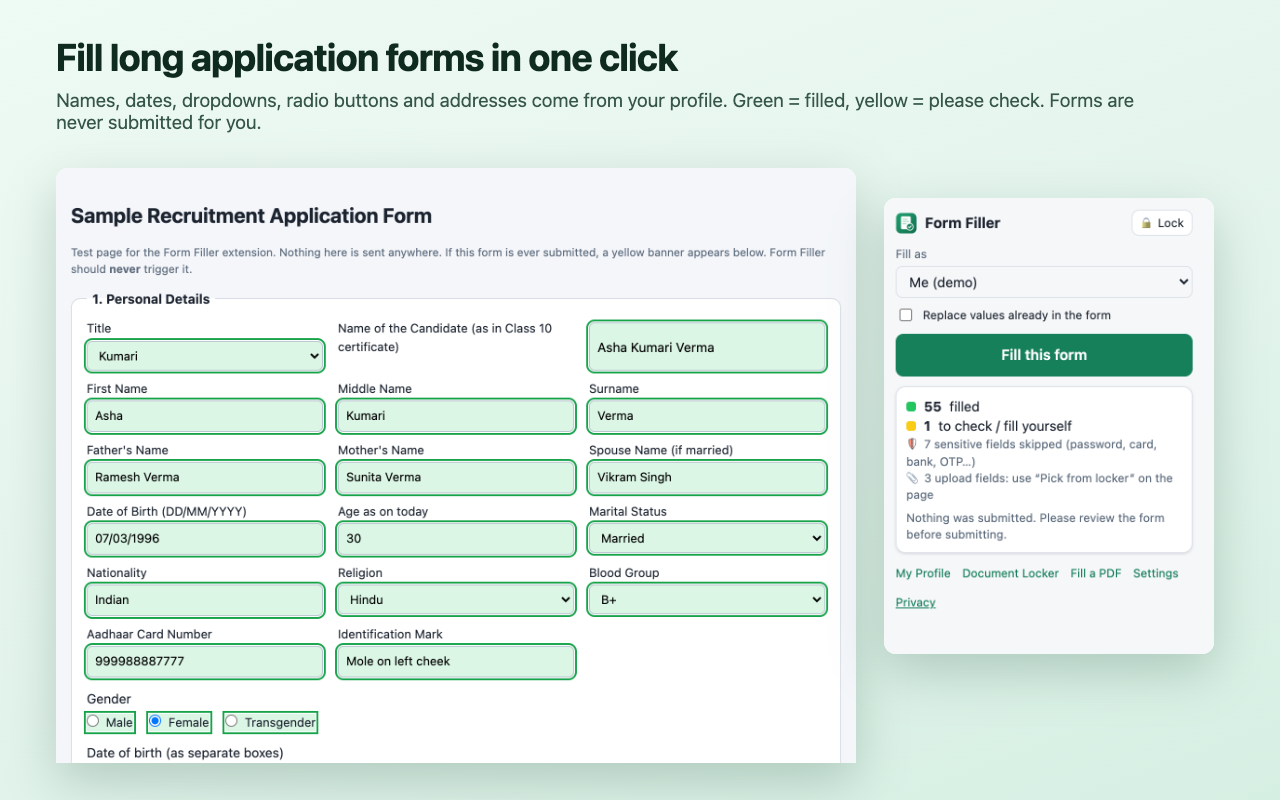
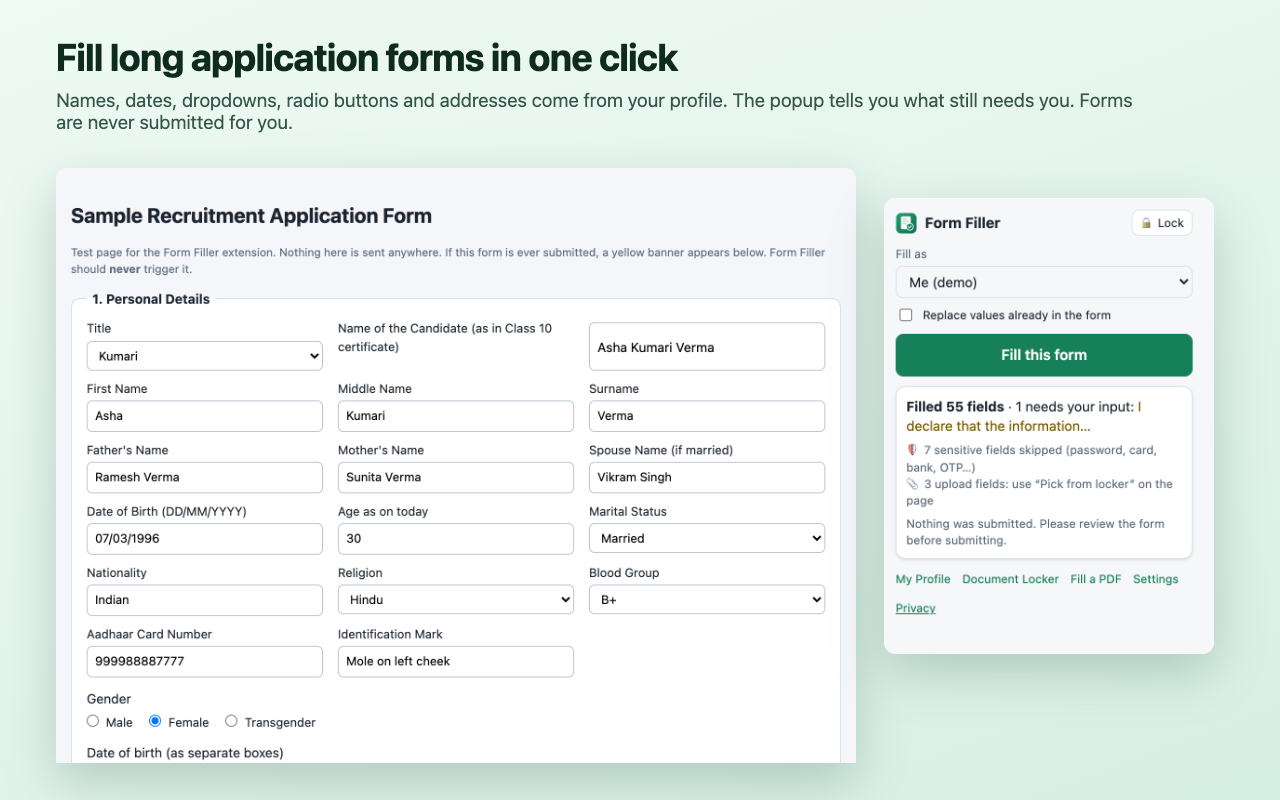
Web forms: no highlighting by default; summary in the popup; optional 'Highlight fields' setting
- The page is left as it is apart from the filled values: no outlines, tints,
  tooltips or in-page summary box (also no outline after attaching a file).
- The popup shows the result: 'Filled 55 fields · 1 needs your input:
  Declaration…' plus 'Please check: …' for values filled but uncertain. Field
  names are short (English part of bilingual labels, no numbering/brackets).
- Settings → Filling → 'Highlight fields on the page' (off by default) brings
  back the green/yellow highlights and the page summary.
- README, store listing text and screenshot 1 updated.

diff --git a/content/content.js b/content/content.js
@@ -295,8 +295,26 @@
   /**
    * assignments: [{ffId, value, kind, sure, dateFormat, key}] ; review: [ffId] mapped-but-empty / unmapped
    */
-  async function fill({ assignments, review, overwrite }) {
-    const stats = { green: 0, yellow: 0, kept: 0 };
+  // Highlighting is optional (Settings → Filling → Highlight fields on the page); by default the page is left
+  // exactly as it is apart from the filled values, and the summary is shown in the popup only.
+  let highlightOn = false;
+
+  /** Short, readable name of a field for the popup summary ("Mobile Number / मोबाइल नंबर :" → "Mobile Number"). */
+  function shortLabel(f) {
+    let l = String(f.desc.label || f.desc.placeholder || f.desc.name || '');
+    l = l.split(/\s+\/\s+/)[0]
+      .replace(/\s*\([^)]*\)\s*/g, ' ')
+      .replace(/^[\s\d.)]+/, '')
+      .replace(/[\s:*]+$/, '')
+      .replace(/\s+/g, ' ').trim();
+    if (!l) return 'Unnamed field';
+    return l.length > 32 ? l.slice(0, 30).trim() + '…' : l;
+  }
+
+  async function fill({ assignments, review, overwrite, highlight }) {
+    highlightOn = !!highlight;
+    clearHighlights();
+    const stats = { green: 0, yellow: 0, kept: 0, filled: 0, needs: [], check: [] };
     const pending = [];
     for (const a of assignments) {
       const f = fields.get(a.ffId);
@@ -324,8 +342,11 @@
       if (isFilledByUser(f)) continue;
       mark(f, YELLOW, 'Form Filler: not sure what goes here. Please fill or check manually.');
       stats.yellow++;
+      stats.needs.push(shortLabel(f));
     }
-    showPanel(stats);
+    if (highlightOn) showPanel(stats);
+    stats.needs = [...new Set(stats.needs)];
+    stats.check = [...new Set(stats.check)];
     return stats;
   }
 
@@ -337,10 +358,10 @@
   }
 
   function finish(f, a, r, stats) {
-    if (r === 'filled' && a.sure) { mark(f, GREEN, `Form Filler: filled from your profile (${a.key}).`); stats.green++; }
-    else if (r === 'filled' || r === 'unsure') { mark(f, YELLOW, `Form Filler: filled (${a.key}) but please double-check.`); stats.yellow++; }
+    if (r === 'filled' && a.sure) { mark(f, GREEN, `Form Filler: filled from your profile (${a.key}).`); stats.green++; stats.filled++; }
+    else if (r === 'filled' || r === 'unsure') { mark(f, YELLOW, `Form Filler: filled (${a.key}) but please double-check.`); stats.yellow++; stats.filled++; stats.check.push(shortLabel(f)); }
     else if (r === 'kept') { stats.kept++; }
-    else { mark(f, YELLOW, `Form Filler: could not fill (${a.key}); no matching value or option.`); stats.yellow++; }
+    else { mark(f, YELLOW, `Form Filler: could not fill (${a.key}); no matching value or option.`); stats.yellow++; stats.needs.push(shortLabel(f)); }
   }
 
   // ---------------- highlights ----------------
@@ -351,6 +372,7 @@
   }
 
   function mark(f, color, title) {
+    if (!highlightOn) return; // default: no colours, borders, tints or tooltips on the page
     for (const t of targetsOf(f)) {
       if (!t.dataset.ffOrig) t.dataset.ffOrig = JSON.stringify({ o: t.style.outline, b: t.style.backgroundColor, t: t.title });
       t.style.setProperty('outline', color.outline, 'important');
@@ -532,7 +554,7 @@
         input.dispatchEvent(new Event('change', { bubbles: true }));
         closePicker();
         const target = visible(input) ? input : input.parentElement;
-        if (target) {
+        if (target && highlightOn) {
           target.style.setProperty('outline', GREEN.outline, 'important');
           highlighted.add(target);
         }

diff --git a/popup/popup.js b/popup/popup.js
@@ -103,8 +103,14 @@ function renderResult(r) {
   if (r.mode === 'none') {
     lines.push('<div class="notice small">No fillable fields found on this page.</div>');
   } else {
-    lines.push(`<div class="line"><span class="dot" style="background:#22c55e"></span><b>${r.green}</b> filled</div>`);
-    lines.push(`<div class="line"><span class="dot" style="background:#facc15"></span><b>${r.yellow}</b> to check / fill yourself</div>`);
+    // "Filled 12 fields · 2 need your input: Mobile, Course"
+    const names = (list, max = 6) => list.length <= max ? list.map(esc).join(', ') : `${list.slice(0, max).map(esc).join(', ')} +${list.length - max} more`;
+    const filled = r.filled ?? r.green;
+    const needs = r.needs || [];
+    lines.push(`<div class="summary"><b>Filled ${filled} field${filled === 1 ? '' : 's'}</b>${needs.length
+      ? ` · ${needs.length} need${needs.length === 1 ? 's' : ''} your input: <span class="names">${names(needs)}</span>`
+      : ' · nothing left for you'}</div>`);
+    if (r.check?.length) lines.push(`<div class="small" style="margin-top:4px">Please check: ${names(r.check)}</div>`);
     if (r.kept) lines.push(`<div class="line small muted">${r.kept} already had a value (left as is)</div>`);
   }
   if (r.sensitive) lines.push(`<div class="line small muted">🛡 ${r.sensitive} sensitive field(s) skipped (password, card, bank, OTP…)</div>`);

diff --git a/background.js b/background.js
@@ -129,15 +129,22 @@ async function handleFill({ tabId, profileId, overwrite }) {
     });
   });
 
-  const totals = { green: 0, yellow: 0, kept: 0 };
+  const totals = { green: 0, yellow: 0, kept: 0, filled: 0, needs: [], check: [] };
+  const highlight = !!vault.settings.highlight; // off by default: no colours on the page
   for (const [frameId, args] of perFrame) {
     const [res] = await chrome.scripting.executeScript({
       target: { tabId, frameIds: [frameId] },
       func: (a) => window.__formFiller.fill(a),
-      args: [{ ...args, overwrite: !!overwrite }]
+      args: [{ ...args, overwrite: !!overwrite, highlight }]
     });
-    if (res?.result) for (const k of Object.keys(totals)) totals[k] += res.result[k] || 0;
+    const r = res?.result;
+    if (!r) continue;
+    for (const k of ['green', 'yellow', 'kept', 'filled']) totals[k] += r[k] || 0;
+    totals.needs.push(...(r.needs || []));
+    totals.check.push(...(r.check || []));
   }
+  totals.needs = [...new Set(totals.needs)];
+  totals.check = [...new Set(totals.check)];
   const fallbackModel = mode === 'ai' && lastModelUsed && lastModelUsed !== model ? lastModelUsed : null;
   return { ok: true, ...totals, sensitive, fileInputs, mode, aiError, fallbackModel, aiLimit: /daily limit|today's/.test(aiError || ''), remaining: aiMode(vault.settings) === 'service' ? lastRemaining : null, limit: lastLimit };
 }

diff --git a/options/options.js b/options/options.js
@@ -304,12 +304,18 @@ $('#doc-grid').addEventListener('click', async (e) => {
 function renderSettings() {
   $('#api-key').value = vault.settings.apiKey || '';
   $('#model').value = vault.settings.model || DEFAULT_MODEL;
+  $('#highlight').checked = !!vault.settings.highlight;
   const mode = aiMode(vault.settings);
   document.querySelectorAll('input[name=ai-mode]').forEach((r) => { r.checked = r.value === mode; });
   showModeFields();
   quotaToday().then((left) => { $('#quota-note').textContent = left != null ? `${left} left today.` : ''; });
 }
 const msg = (el, text, cls = 'muted') => { el.className = 'small ' + cls; el.textContent = text; };
+
+$('#highlight').onchange = async (e) => {
+  vault.settings.highlight = e.target.checked;
+  if (await persist()) msg($('#fill-msg'), e.target.checked ? '✓ Fields will be highlighted on the page.' : '✓ No highlighting: the summary appears in the popup.', 'ok');
+};
 
 const selectedMode = () => document.querySelector('input[name=ai-mode]:checked')?.value || 'service';
 function showModeFields() {

diff --git a/options/options.html b/options/options.html
@@ -96,6 +96,14 @@
         </div>
       </div>
       <div class="card">
+        <h2>Filling</h2>
+        <label class="ai-mode"><input type="checkbox" id="highlight">
+          <span><b>Highlight fields on the page</b><br>
+          <span class="muted small">Outline filled fields in green and fields to check in yellow, with a small summary box on the page.
+            Off by default: Form Filler just fills the values and shows the summary in its popup.</span></span></label>
+        <div class="row" style="margin-top:10px"><span id="fill-msg" class="small"></span></div>
+      </div>
+      <div class="card">
         <h2>Change PIN</h2>
         <div class="grid3">
           <label><span>Current PIN</span><input type="password" id="pin-old" autocomplete="off"></label>

diff --git a/popup/popup.html b/popup/popup.html
@@ -13,6 +13,8 @@
     #result { margin-top: 10px; }
     #result .line { display: flex; align-items: center; gap: 8px; }
     .dot { width: 10px; height: 10px; border-radius: 3px; display: inline-block; }
+    .summary { font-size: 14px; line-height: 1.45; margin-bottom: 6px; }
+    .summary .names { color: var(--warn-ink); }
     .links { display: flex; gap: 12px; margin-top: 12px; font-size: 12px; flex-wrap: wrap; }
     #lock .card { box-shadow: none; padding: 4px 0; border: 0; }
     #lock h2 { font-size: 15px; }

diff --git a/README.md b/README.md
@@ -4,7 +4,7 @@
 
 Form Filler is a Chrome extension for people who fill the same details into form after form: name, father's name, date of
 birth, addresses, education, category, documents. Save them once, open any application form, click **Fill this form**,
-check the highlighted fields, and submit yourself.
+check what the popup says still needs you, and submit yourself.
 
 ![Filling a web application form in one click](store/screenshots/1-fill-web-forms.png)
 
@@ -15,8 +15,9 @@ check the highlighted fields, and submit yourself.
   day/month/year boxes, date pickers) and dropdowns that load after another one (State → District)
 - Understands common labels and their variations: “Name of the Candidate”, “Father's/Husband's Name”, “S/o”,
   “Address for Correspondence”, Hindi labels (नाम, पिता का नाम, पता…)
-- Green = filled, yellow = please check. **Never submits a form**, and never touches password, card, CVV, bank, OTP or
-  captcha fields
+- Just fills the values: the page itself isn't marked up. The popup sums it up, e.g. *“Filled 12 fields · 2 need your
+  input: Mobile, Course”* (optional setting: highlight fields on the page). **Never submits a form**, and never touches
+  password, card, CVV, bank, OTP or captcha fields
 
 **PDF forms** (*Fill a PDF*)
 - Fillable PDFs are filled directly and stay editable
@@ -124,7 +125,7 @@ node scripts/package.mjs         # build dist/form-filler-<version>.zip for the 
 | Path | What's there |
 |---|---|
 | `manifest.json`, `background.js` | Manifest V3 extension, fill orchestration |
-| `content/` | in-page scanning, filling, highlights, locker buttons (`fillcore.js` holds the shared matching rules) |
+| `content/` | in-page scanning, filling, optional highlights, locker buttons (`fillcore.js` holds the shared matching rules) |
 | `lib/` | encrypted vault, profile schema, AI modes (`ai.js`, `gemini-core.js`), PDF text/geometry, image tools |
 | `popup/`, `options/`, `pdf/`, `picker/` | popup, settings & profile pages, Fill a PDF, Pick from locker |
 | `server/` | the free AI server (`server.mjs`, `limits.mjs`) |

diff --git a/store/listing.md b/store/listing.md
@@ -25,7 +25,7 @@ Tired of typing the same details into every job, exam and admission form? Form F
 **Fill web forms in one click**
 • Names, dates of birth (in any format: DD/MM/YYYY, separate day/month/year boxes…), dropdowns, radio buttons, checkboxes and addresses
 • Education (10th, 12th, graduation…), category, family and work details
-• Green = filled, yellow = please check. The form is never submitted for you
+• Fills the values and tells you in the popup which fields still need you (“Filled 12 fields · 2 need your input: Mobile, Course”). The form is never submitted for you
 • Password, card, CVV, bank, OTP and captcha fields are never touched
 
 **Fill PDF forms too**
@@ -46,7 +46,7 @@ Tired of typing the same details into every job, exam and admission form? Form F
 • No account, no ads, no tracking, no analytics
 • Several profiles (you and your family), encrypted backup and restore, “Delete all data” in one click
 
-How it works: save your details once → open any application form → click Form Filler → “Fill this form” → check the highlighted fields → submit yourself.
+How it works: save your details once → open any application form → click Form Filler → “Fill this form” → fill in what the popup lists → submit yourself.
 
 Privacy policy: https://YOUR-SERVICE.onrender.com/privacy
 
